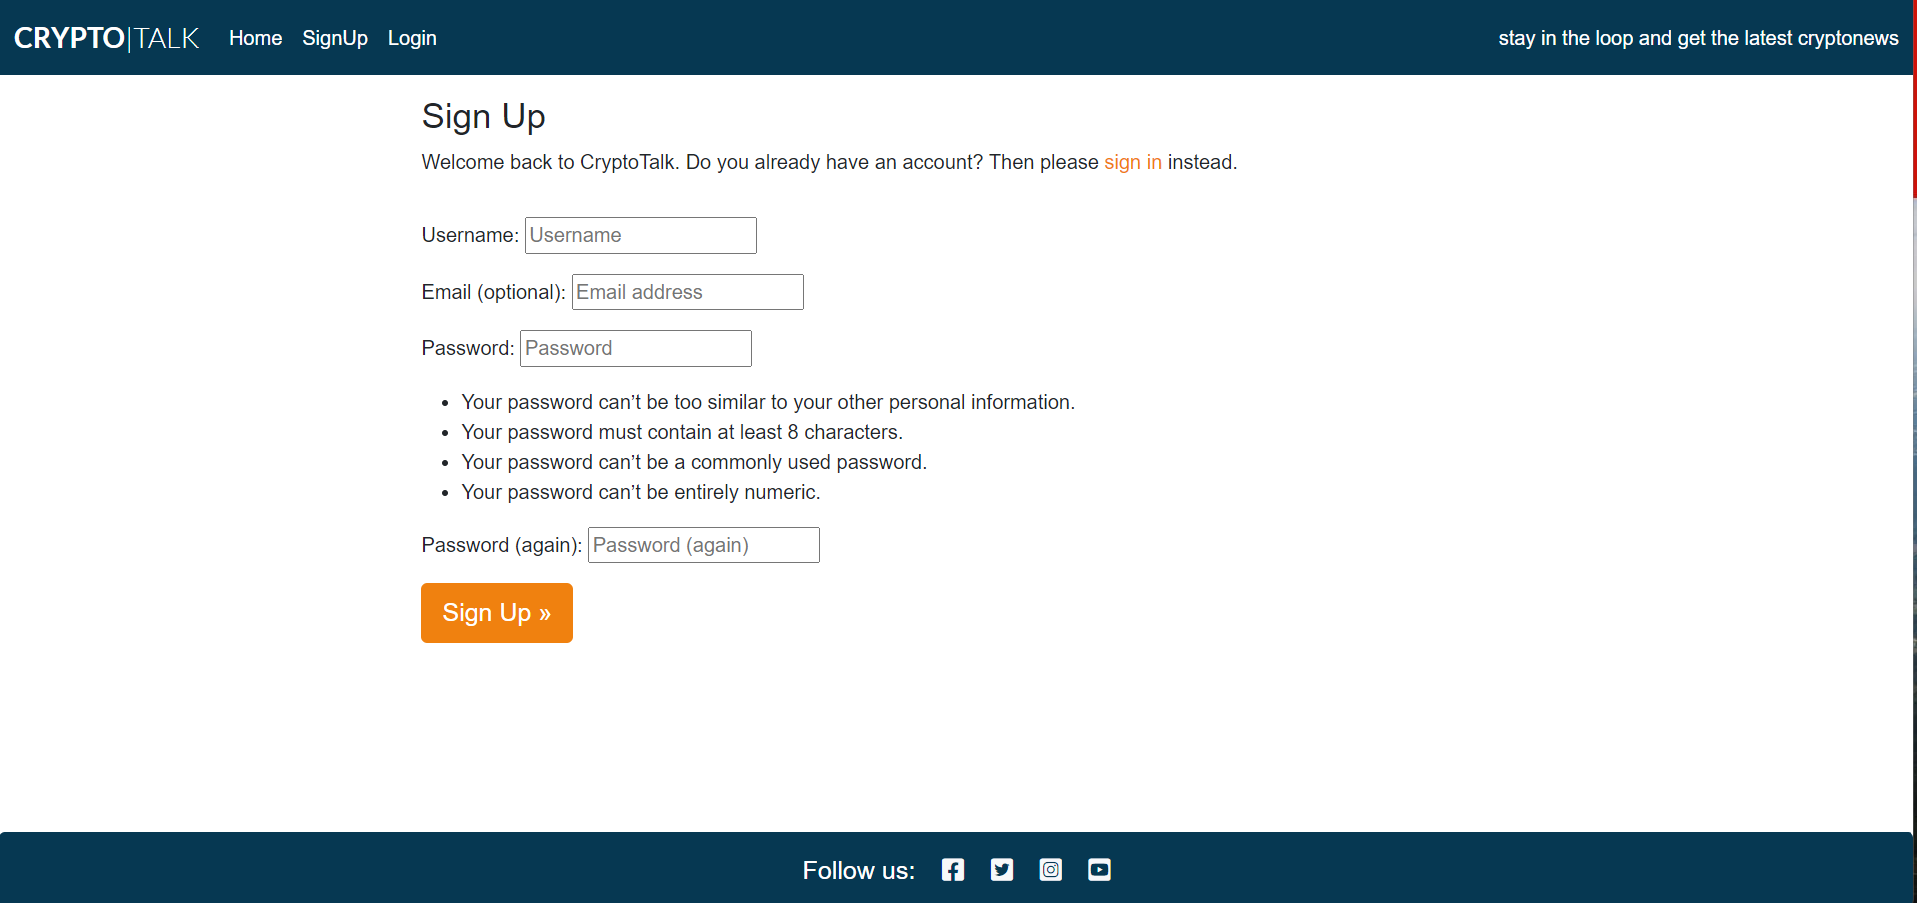
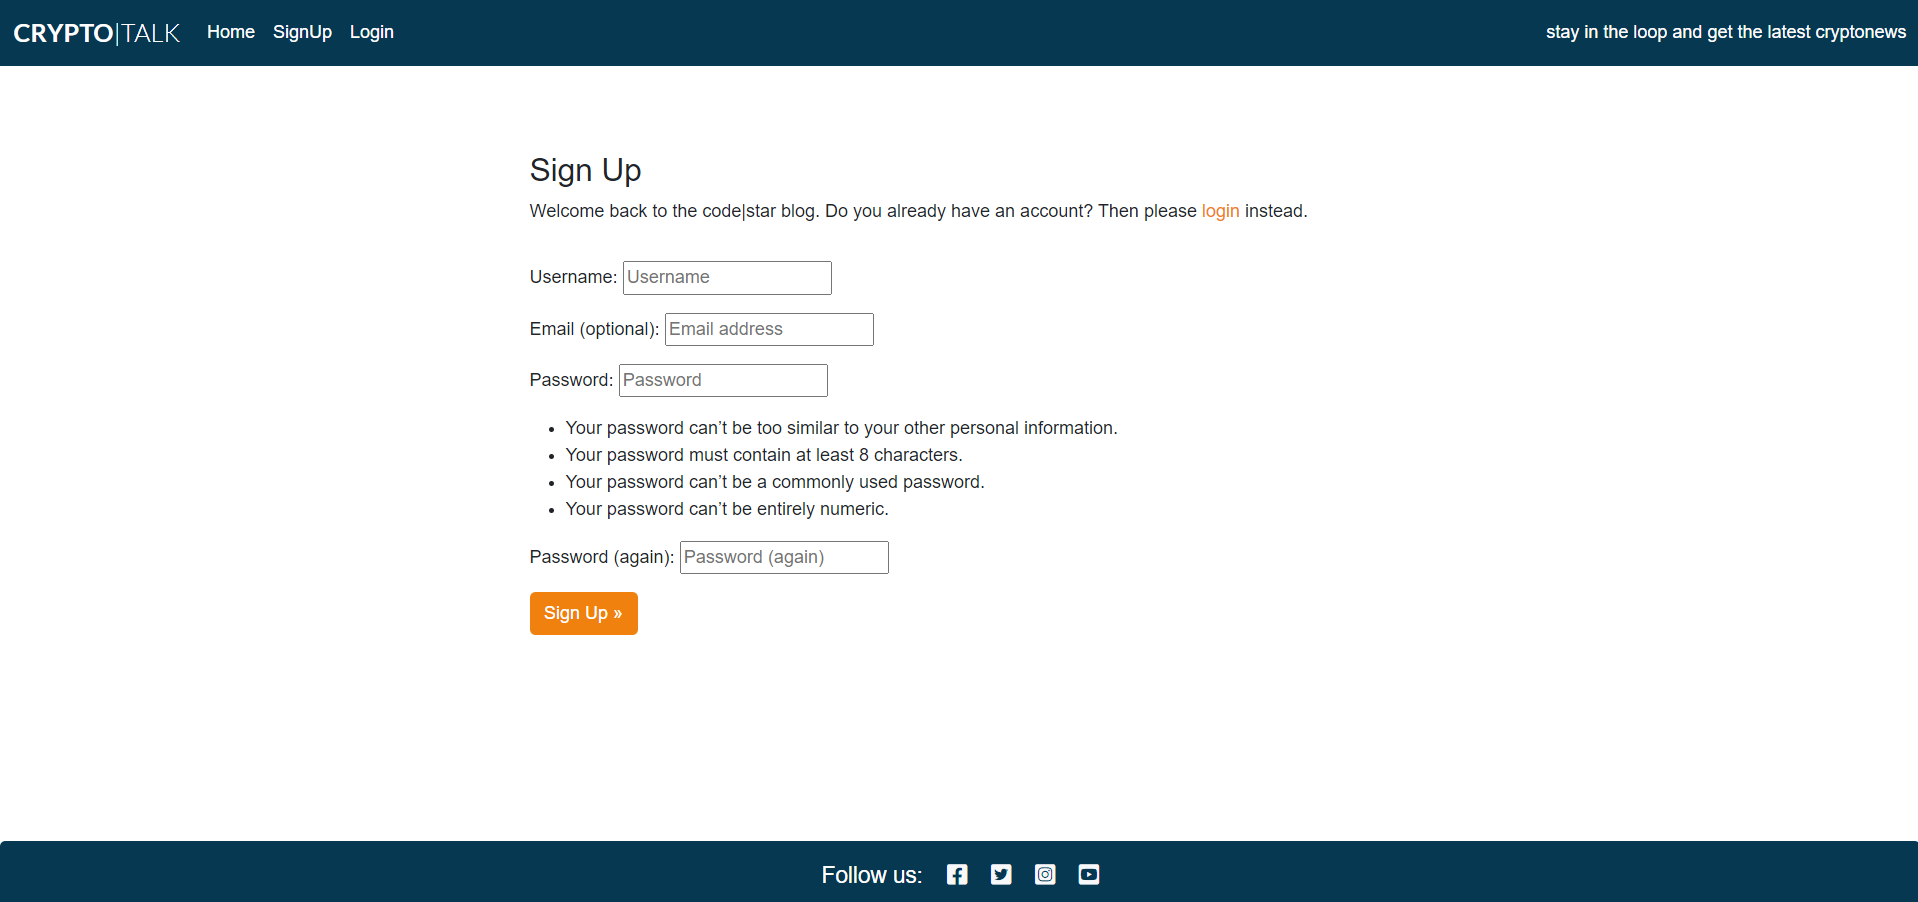
update testing readme

Changed region(s): [[0.2154, 0.1242, 0.6771, 0.714], [0.0, 0.0, 1.0, 1.0]]

diff --git a/templates/account/signup.html b/templates/account/signup.html
@@ -11,7 +11,7 @@
             <h3>{% trans "Sign Up" %}</h3>
 
             <p>{% blocktrans %}Welcome back to the code|star blog. Do you already have an account? Then please <a
-                    class="link" href="{{ login_url }}">sign in</a> instead.{% endblocktrans %}</p>
+                    class="link" href="{{ login_url }}">login</a> instead.{% endblocktrans %}</p>
         </div>
     </div>
     <div class="row">

diff --git a/cryptalk/settings.py b/cryptalk/settings.py
@@ -34,7 +34,7 @@ TEMPLATES_DIR = os.path.join(BASE_DIR, 'templates')
 SECRET_KEY = os.environ.get('SECRET_KEY')
 
 # SECURITY WARNING: don't run with debug turned on in production!
-DEBUG = True
+DEBUG = 'DEBUG' in os.environ
 
 X_FRAME_OPTIONS: 'SAMEORIGIN'
 

diff --git a/TESTING.md b/TESTING.md
@@ -111,24 +111,47 @@ Testing with <https://jigsaw.w3.org/css-validator/> show no errors in CSS:
 |               | Click on Logo (Navbar) | Redirect to Home Page | PASS        |
 |               | Click on Login link (Navbar) | Redirect to Login Page | PASS  
 |               | Click on Sign Up link | Redirect to Sign Up page | PASS |
-|               | Click on Post detail title | Redirect to Post detail page | PASS |
 |               | Click on Social links in footer | Open new tab with appropriate link | PASS |
 |               | Click on Home link (Navbar) | Redirect to Home page | PASS |
 | Home Page (Logged In - User)  |                 |          |  |
-|               | Click on post link (Navbar) | Redirect to Post page | PASS |
-|               | Click on logout link| Redirect to Logout page | PASS |
-|               | Click on delete link| Redirect to Delete page | PASS |
-|               | Click on edit link| Redirect to Edit page | PASS |
+|               | Click on Logo (Navbar) | Redirect to Home Page | PASS        |
+|               | Click on Add Post link (Navbar) | Redirect to Add Post page | PASS |
+|               | Click on Posts link (Navbar) | Redirect to Postlist page | PASS |
+|               | Click on Logout link (Navbar)| Redirect to Logout page | PASS |
+|               | Click on Home link (Navbar) | Redirect to Home page | PASS |
+|               | Click on Social links in footer | Open new tab with appropriate link | PASS |
+| Postlist Page     |               |                  |                  |
+|               | Click on Logo (Navbar) | Redirect to Home Page | PASS        |
+|               | Click on Add Post link (Navbar) | Redirect to Add Post page | PASS |
+|               | Click on Posts link (Navbar) | Redirect to Postlist page | PASS |
+|               | Click on Logout link (Navbar)| Redirect to Logout page | PASS |
+|               | Click on Home link (Navbar) | Redirect to Home page | PASS |
+|               | Click on Social links in footer | Open new tab with appropriate link | PASS |
+|               | Click on Post detail title | Redirect to Post detail page | PASS |
+|               | Click on Edit link | Redirect to Edit Post page | PASS |
+|               | Click on Delete link | Redirect to Delete Post page | PASS |
+| Login Page  |                  |                  |                  |
+|               | Click on Logo (Navbar) | Redirect to Home Page | PASS        |
+|               | Click on Sign up link| Redirect to Sing Up page | PASS |
+|               | Click on Sign up link (Navbar)| Redirect to Sing Up page | PASS |
+|               | Click on Login button | Redirect to Home page | PASS |
+|               | Click on Social links in footer | Open new tab with appropriate link | PASS |
+|               | Click on Home link (Navbar) | Redirect to Home page | PASS |
+|               | Try without username | Must provide user name| PASS |
+|               | Try without password | Must provide password| PASS |
 | Sign Up Page  |                  |                  |                  |
-|               | Click on Sign in link| Redirect to Login page | PASS |
 |               | Click on Sign up button | Redirect to Home page | PASS |
-| Sign In Page  |                  |                  |                  |
-|               | Click on Sign up button | Redirect to Sign Up page | PASS |
-|               | Try invalid username | Invalid Username or Password | PASS |
-|               | Try invalid password | Invalid Username or Password  | PASS |
+|               | Try without username | Must provide user name| PASS |
+|               | Try without password | Must provide password| PASS |
 |               | Valid password and username | Logs in, message that you signed in | PASS |
-|               | Click Sign In link | Redirect to Home page | PASS |
+|               | Click Login link | Redirect to Login page | PASS |
+|               | Click on Social links in footer | Open new tab with appropriate link | PASS |
 | Logout Page  |                  |                  |                  |
+|               | Click on Logo (Navbar) | Redirect to Home Page | PASS        |
+|               | Click on Add Post link (Navbar) | Redirect to Add Post page | PASS |
+|               | Click on Posts link (Navbar) | Redirect to Postlist page | PASS |
+|               | Click on Logout link (Navbar)| Redirect to Logout page | PASS |
+|               | Click on Home link (Navbar) | Redirect to Home page | PASS |
 |               | Click on Sign Out button | Redirect to Home page, message that you signed out | PASS |
 | Post Page |                  |                  |                  |
 |               | Click on Choose file link (featured image) | Open up file browser| PASS |
